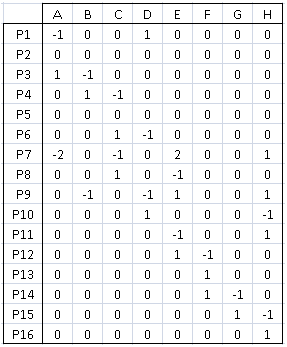
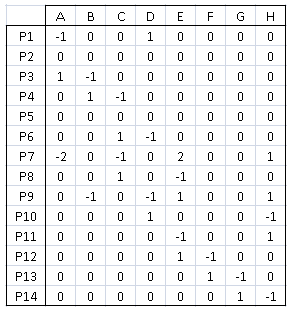
m-a-j des images

Changed region(s): [[0.0, 0.0, 1.0, 1.0]]

diff --git a/index.html b/index.html
@@ -158,19 +158,11 @@
 		</tr>
 		<tr>
 			<td>P13</td>
-			<td>entrepôt_box</td>
-		</tr>
-		<tr>
-			<td>P14</td>
 			<td>b_rdy_lid_cyl</td>
 		</tr>
 		<tr>
-			<td>P15</td>
+			<td>P14</td>
 			<td>p18</td>
-		</tr>
-		<tr>
-			<td>P16</td>
-			<td>entrepôt_cyl</td>
 		</tr>
 	  </table>
 	  
@@ -181,17 +173,17 @@
 	  <p>Ce qui permet de définir les P-Invariants suivants:</p>
 
 	  <ul>
-		<li>P2=0</li>
-		<li>P5=0</li>
-		<li>P1+P3+P4+P6 = 0</li>
-		<li>P8+P11+P12+P14+P15 = 0</li>
+		<li>P2 = 0</li>
+		<li>P5 = 0</li>
+		<li>P1 + P3 + P4 + P6 = 0</li>
+		<li>P8 + P11 + P12 + P13 + P14 = 0</li>
 	  </ul>
 	  
 	  <p>En conservant les mêmes valeurs que dans les P-Invariants, on obtient la matrice des T-Invariants suivante:</p>
 
 	  <a href="http://xeph.github.io/LOG670.TP3/images/matrix-T.png" target="_blank"><img src="images/matrix-T.png"/></a>
 	  
-	  <p>En procédant aux opérations pour trouver les T-Invariants, il est impossible de trouver des T-Invariants.</p>
+	  <p>En procédant aux opérations pour trouver les T-Invariants, on obtient les T-Invariants suivant:A+B+C+D+E+F+G+H = 0</p>
 	  
 	  <h5><a id="etats_justifies" class="anchor" href="#etats_justifies" aria-hidden="true"><span class="octicon octicon-link"></span></a>LES POSSIBILITÉS D'INTERBLOCAGE</h5>
 	  
